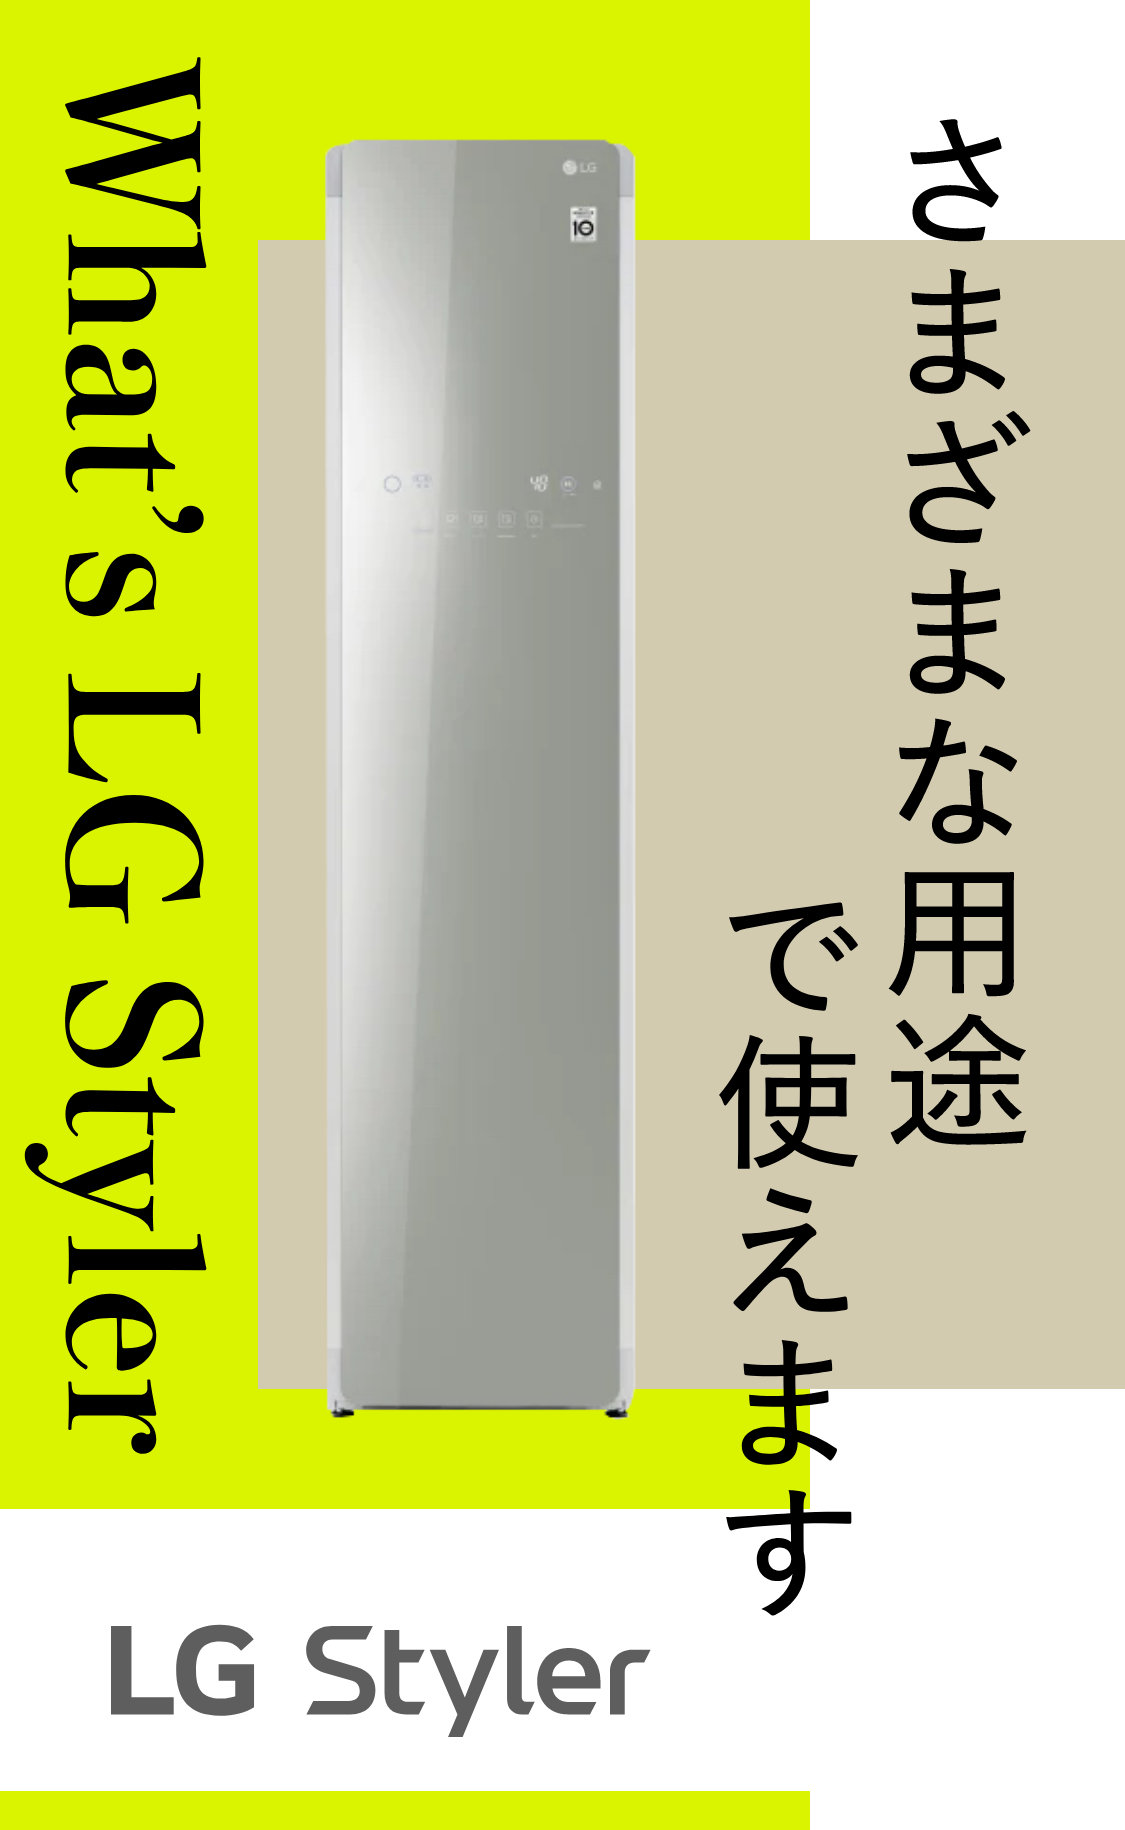
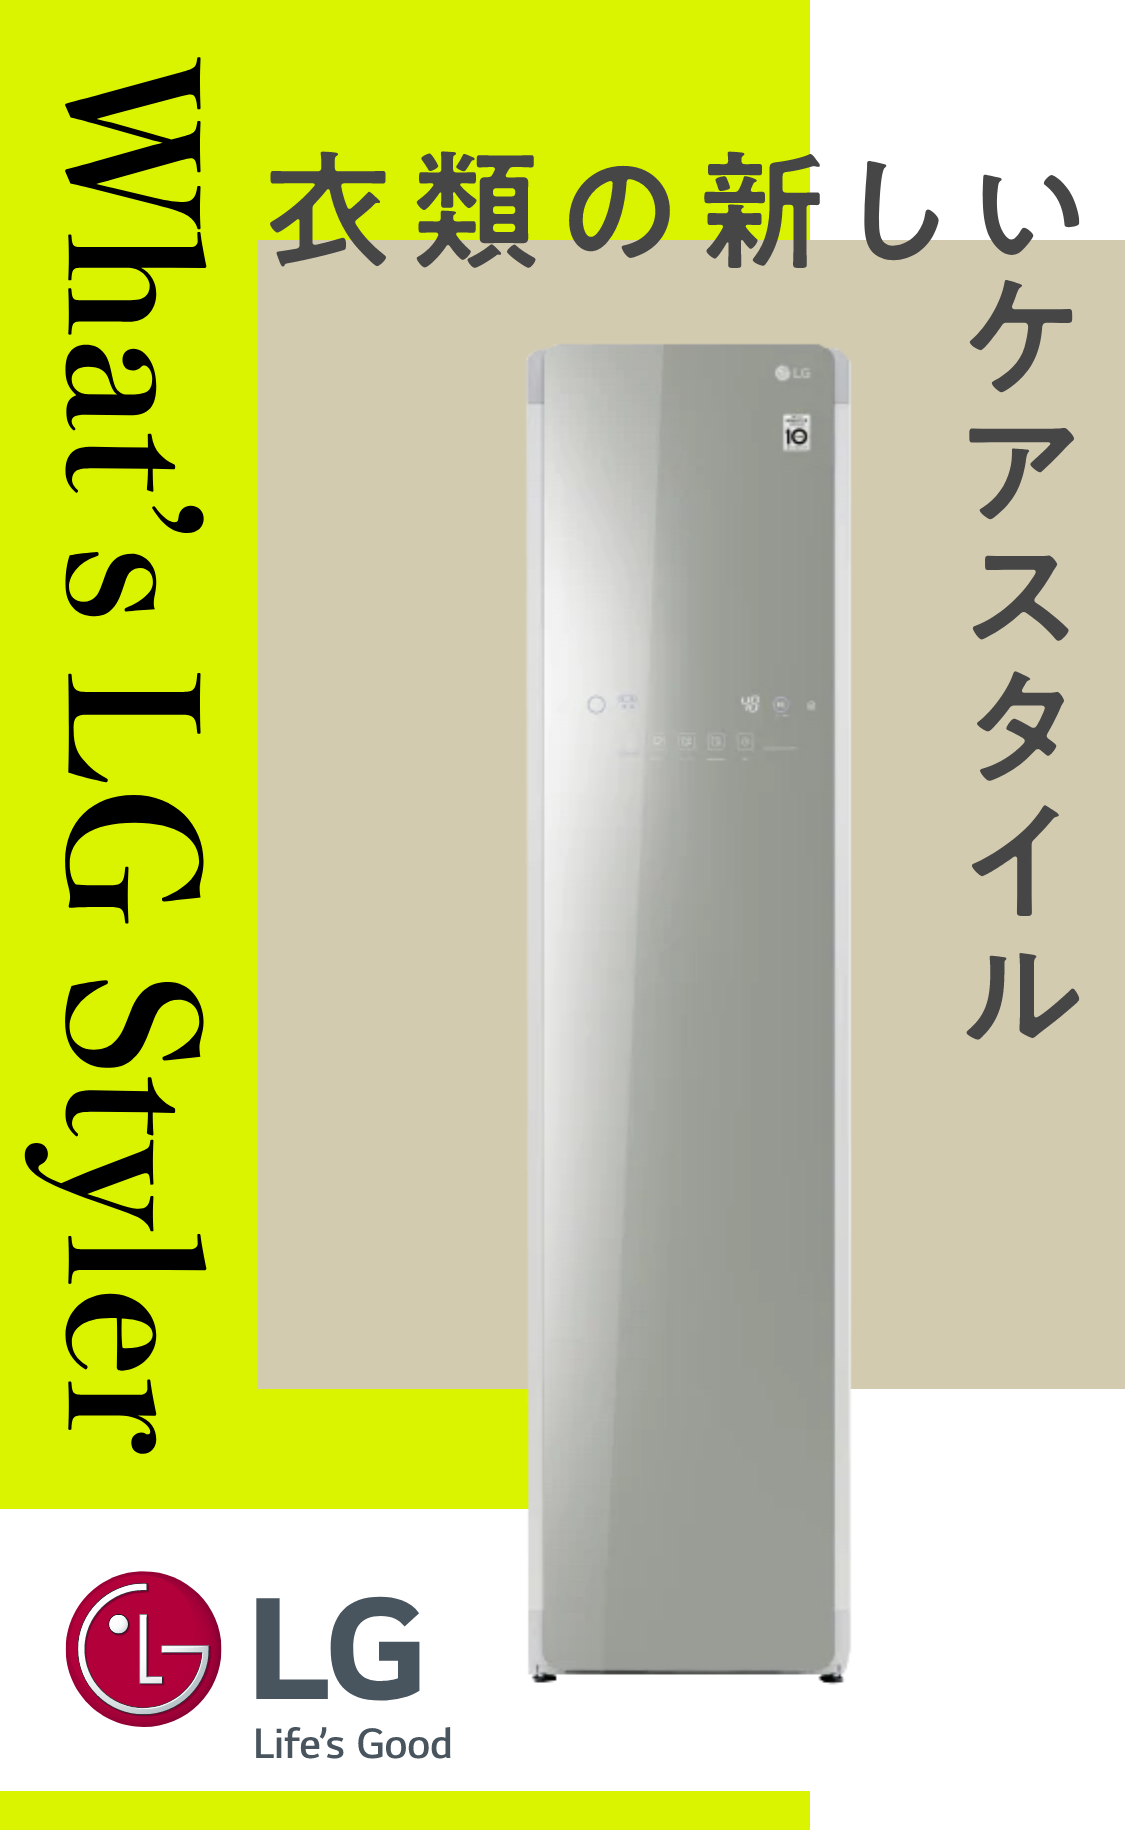
adjust what's styler pics

diff --git a/index.html b/index.html
@@ -99,7 +99,7 @@
           <a href="articles/whats-lg-styler/">
             <div class="top-article-item reveal_tran_rl">
               <div class="top-article-cover-image">
-                <img src="articles/whats-lg-styler/assets/images/1.png">
+                <img src="articles/whats-lg-styler/assets/images/cover.png">
               </div>
             </div>
           </a>
